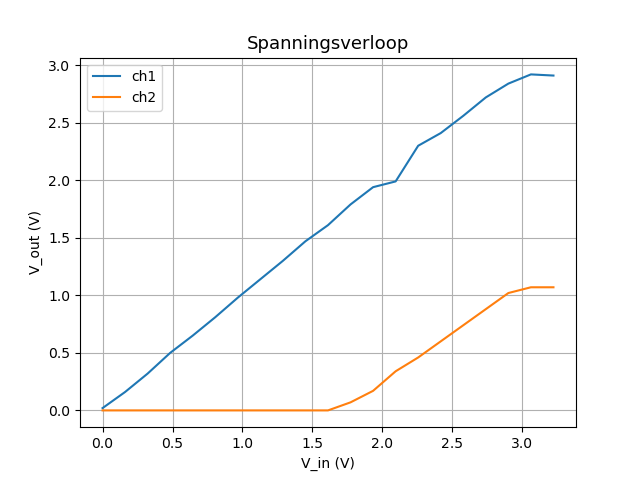
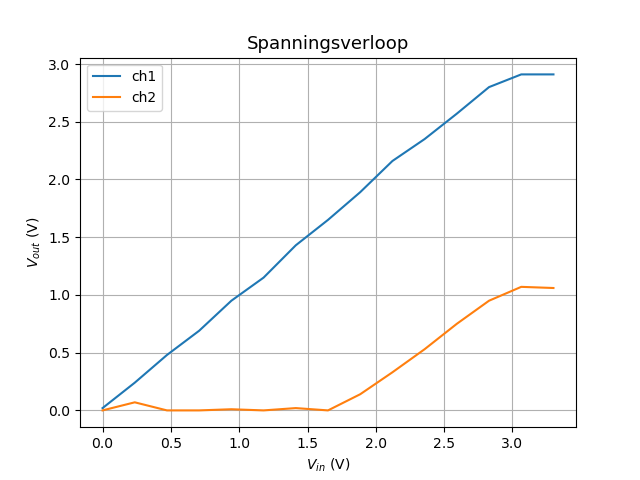
Added code for Experiment-automatization

diff --git a/Experiment-automization/ch3/experiment.py b/Experiment-automization/ch3/experiment.py
@@ -1,51 +1,39 @@
-import pyvisa
+from pythonlab.controllers.arduino_device import ArduinoVISADevice
 import numpy as np
-import time
-from matplotlib import pyplot as plt
 import pandas as pd
+from matplotlib import pyplot as plt
+import time
 from os import listdir
-from os.path import isfile, join, splitext
+from os.path import join, splitext
 
+# Creating device
+device = ArduinoVISADevice()
+print(device.get_hardware_info())
+# print(device.query("OUT:CH1:VOLT?"))
 
-rm = pyvisa.ResourceManager("@py")
-ports = rm.list_resources()
-print(ports)
-
-device = rm.open_resource(
-    ports[-1], read_termination="\r\n", write_termination="\n")
-
-# print(device.query("*IDN?"))
-
-# print(device.query("OUT:CH0 480"))
-# print(device.query("MEAS:CH0:VOLT?"))
-# print(device.query("MEAS:CH1:VOLT?"))
-# print(device.query("MEAS:CH2:VOLT?"))
-
-
-voltage_values_bit = np.arange(0, 1023, 50)
+# Input voltage values
+v_ins = np.linspace(0, 3.3, 15)
 v_outs1, v_outs2 = [], []
 
-for voltage in voltage_values_bit:
-    device.query(f"OUT:CH0 {voltage}")
-    v_out1 = float(device.query("MEAS:CH1:VOLT?"))
-    v_out2 = float(device.query("MEAS:CH2:VOLT?"))
+# Measuring output voltages
+for voltage in v_ins:
+    device.set_output_voltage(channel=0, voltage=voltage)
+    v_out1 = device.measure_input_voltage(channel=1)
+    v_out2 = device.measure_input_voltage(channel=2)
     v_outs1.append(v_out1)
     v_outs2.append(v_out2)
     time.sleep(0.2)
 
-device.query(f"OUT:CH0 0")
-device.close()
+# Shutting down led
+device.set_output_voltage(channel=0, voltage=0)
 
-v_ins = 3.3 * voltage_values_bit / 2**10
-print(v_ins)
-print(v_outs1)
-print(v_outs2)
-
+# Data to pandas dataframe
 df = pd.DataFrame({'V_in': v_ins, 'V_out1': v_outs1, 'V_out2': v_outs2})
+print(df)
 
 
 def save_csv(df):
-    # Saving the file to a unique txt, quite the pain:
+    # Saving the file to a unique txt file, quite the pain:
     try:
         open('test_results_001.csv')
     except FileNotFoundError:
@@ -55,10 +43,11 @@ def save_csv(df):
                            for file in listdir() if splitext(file)[1] == '.csv']) + 1
         df.to_csv(f"test_results_{str(file_number).zfill(3)}.csv")
 
-# Saving the file to hdf5:
+# Saving the data to an hdf5 file:
 
 
 def save_hdf(df):
+    # Saving the data to the hdf5 file is easier
     with pd.HDFStore('test_results.h5') as hdf:
         keys = hdf.keys()
     # Smart trick to create unique keys
@@ -66,14 +55,16 @@ def save_hdf(df):
               key=f'test_result{str(len(keys)).zfill(3)}', mode='a')
 
 
-save_hdf(df)
+save_csv(df)
 
+# Plotting our data
 plt.plot(v_ins, np.array(v_outs1), label='ch1')
 plt.plot(v_ins, np.array(v_outs2), label='ch2')
 plt.grid()
 plt.legend()
-plt.xlabel('V_in (V)')
-plt.ylabel('V_out (V)')
+plt.xlabel(r'$V_{in}$ (V)')
+plt.ylabel(r'$V_{out}$ (V)')
 plt.title('Spanningsverloop', fontsize=13)
+# Saving figure
 plt.savefig('3.2-grafiek.png')
 plt.show()

diff --git a/Experiment-automization/pythonlab/controllers/arduino_device.py b/Experiment-automization/pythonlab/controllers/arduino_device.py
@@ -1,6 +1,6 @@
 """
 Contains the ArduinoVISADevice class.
-Usage: 
+Usage:
     devicedevice = ArduinoVISADevice(port=None)
     device.set_output_value(channel=0, value=512)
     volt_ch0 = device.get_output_voltage(channel=0)
@@ -11,7 +11,7 @@ import pyvisa
 
 class ArduinoVISADevice:
     """A wrapper class to give commands to an Arduino using the VISA interface. Uses pyvisa.
-        Usage: 
+        Usage:
             devicedevice = ArduinoVISADevice(port=None)
             device.set_output_value(channel=0, value=512)
             volt_ch0 = device.get_output_voltage(channel=0)
@@ -22,17 +22,38 @@ class ArduinoVISADevice:
         self.rm = pyvisa.ResourceManager("@py")
         if not port:
             port = self.rm.list_resources()[-1]
+            # print(self.rm.list_resources())
         self.device = self.rm.open_resource(
             port, read_termination="\r\n", write_termination="\n")
 
+    def query(self, query):
+        """Can directly any command, should this be neccesary."""
+        return self.device.query(query)
+
+    def get_hardware_info(self):
+        """Returns the hardware info of the device."""
+        return self.device.query("*IDN?")
+
     def set_output_value(self, channel=0, value=600):
-        """Sets the output voltage of channel to value."""
+        """Sets the output value (Between 0 and 1023) of channel to value."""
         return self.device.query(f"OUT:CH{channel} {value}")
 
-    def get_output_voltage(self, channel=1):
-        """Returns the voltage of the channel specified."""
-        return float(self.device.query(f"MEAS:CH{channel}:VOLT?"))
+    def set_output_voltage(self, channel=0, voltage=2.0):
+        """Sets the output voltage (Between 0 and 3.3V) of channel to value."""
+        return self.device.query(f"OUT:CH{channel}:VOLT {voltage}")
 
-    def get_input_voltage(self, channel=0):
-        """Returns the voltage of the channel specified."""
+    def get_output_value(self, channel=0):
+        """Returns the ouput value (Between 0 and 1023) of the channel specified."""
+        return int(self.device.query(f"OUT:CH{channel}?"))
+
+    def get_output_voltage(self, channel=0):
+        """Returns the output voltage (Between 0 and 3.3 V) of the channel specified."""
+        return float(self.device.query(f"OUT:CH{channel}:VOLT?"))
+
+    def measure_input_value(self, channel=0):
+        """Returns the measured value (Between 0 and 1023) of the channel specified."""
+        return int(self.device.query(f"MEAS:CH{channel}?"))
+
+    def measure_input_voltage(self, channel=1):
+        """Returns the measured voltage (Between 0 and 3.3 V) of the channel specified."""
         return float(self.device.query(f"MEAS:CH{channel}:VOLT?"))

diff --git a/Experiment-automization/setup.py b/Experiment-automization/setup.py
@@ -1,0 +1,9 @@
+from setuptools import setup, find_packages
+
+setup(
+    name="pythonlab",
+    author="V.N. Vreede",
+    version="0.1",
+    packages=find_packages(),
+    entry_points={"console_scripts": ["test_app = ch4.smallangle:approx"]},
+)

diff --git a/Experiment-automization/README.md b/Experiment-automization/README.md
@@ -1,0 +1,32 @@
+# Experiment Automatisering
+## Door Victor Vreede
+Al mijn code geschreven voor de module experimtent automatisering.
+Hierbij een overzicht van alle modules en requirements.
+
+## File structure:
+```
+Experiment-automatization
+│   README.md
+│   setup.py   
+│   __init__.py   
+│
+└───ch2
+│       solutions.py
+└───ch3
+│       first_measurement.py
+│       experiment.py
+│       ...
+└───ch4
+│       __init__.py
+│       smallangle.py
+└───pythonlab
+    │   __init__.py
+    └───controllers
+            __init__.py
+            arduino_device.py
+```
+### Opmerkingen:
+ - `experiment.py` gebruikt de `pythonlab` module, de import werkt alleen als deze geïnstalleerd is. Gebruik hiervoor ```pip install --editable .``` in `Experiment-automatization/`, zoals beschreven in hoofdstuk 4 van de handleiding. Merk op dat `first_measurement.py` dezelfde taken verricht, maar dan zonder deze benodigheid.
+ - De uitwerking van Opdracht 3.7 is te vinden in `experiment.py`, de uitwerking is te zien in de functie `save_csv()` functie.
+ - De uitwerkingen van hoofdstuk 4 zijn op dit moment nog niet af.
+ - Alle code is verder te vinden op [github](https://github.com/Vector04/Prac2.git).
